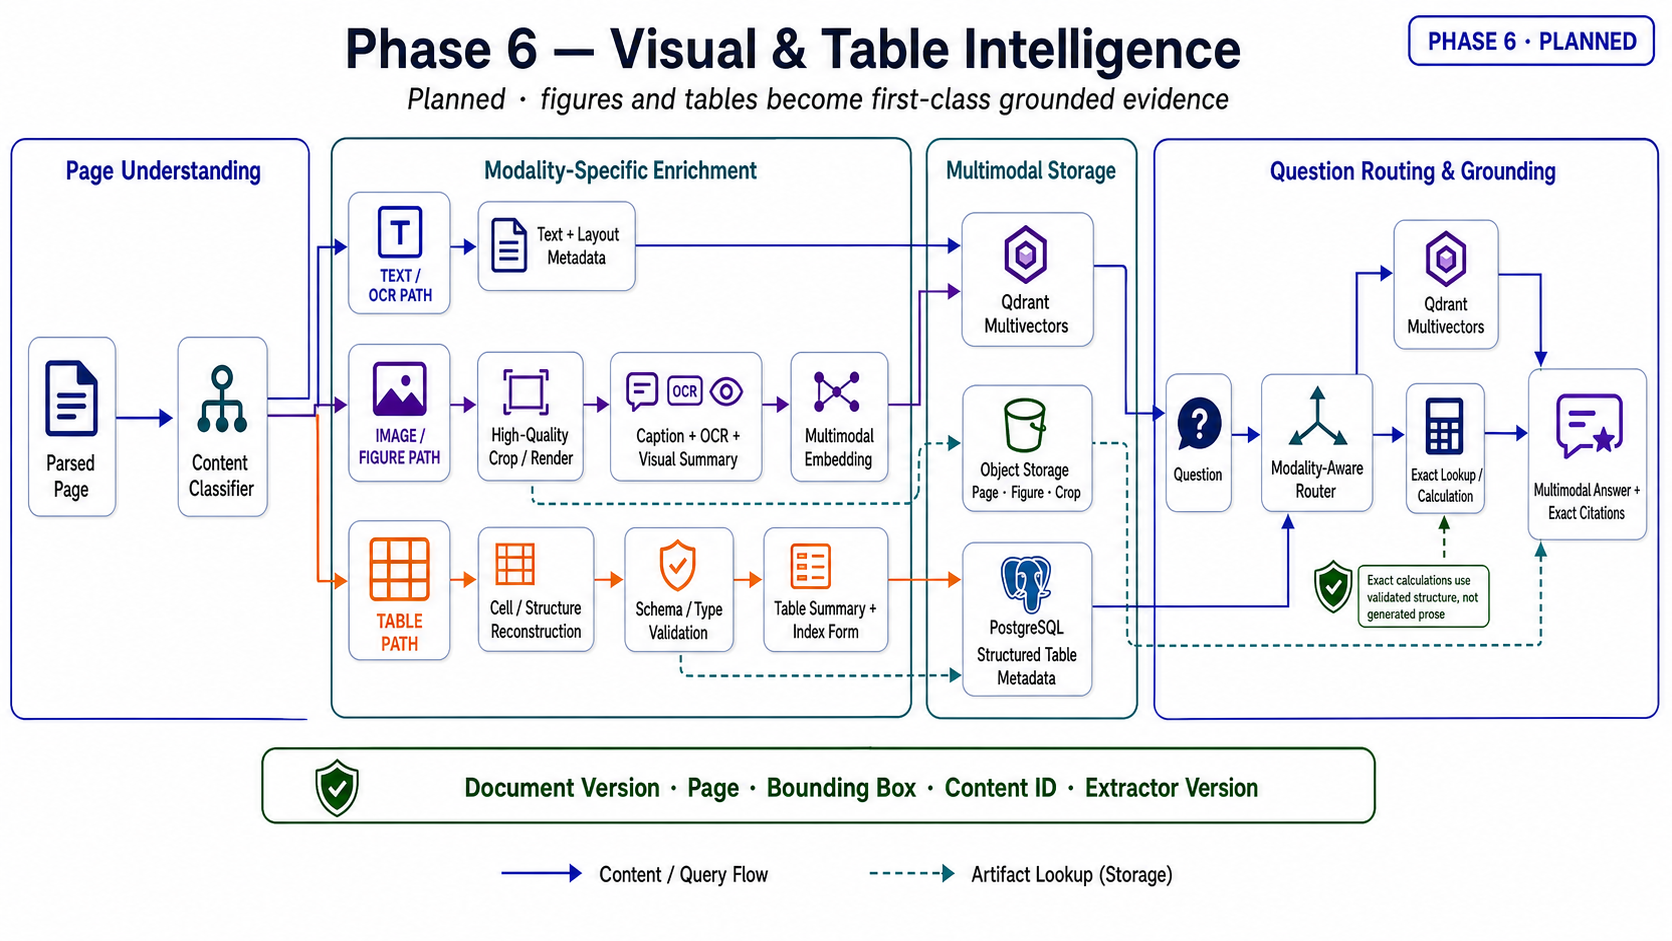
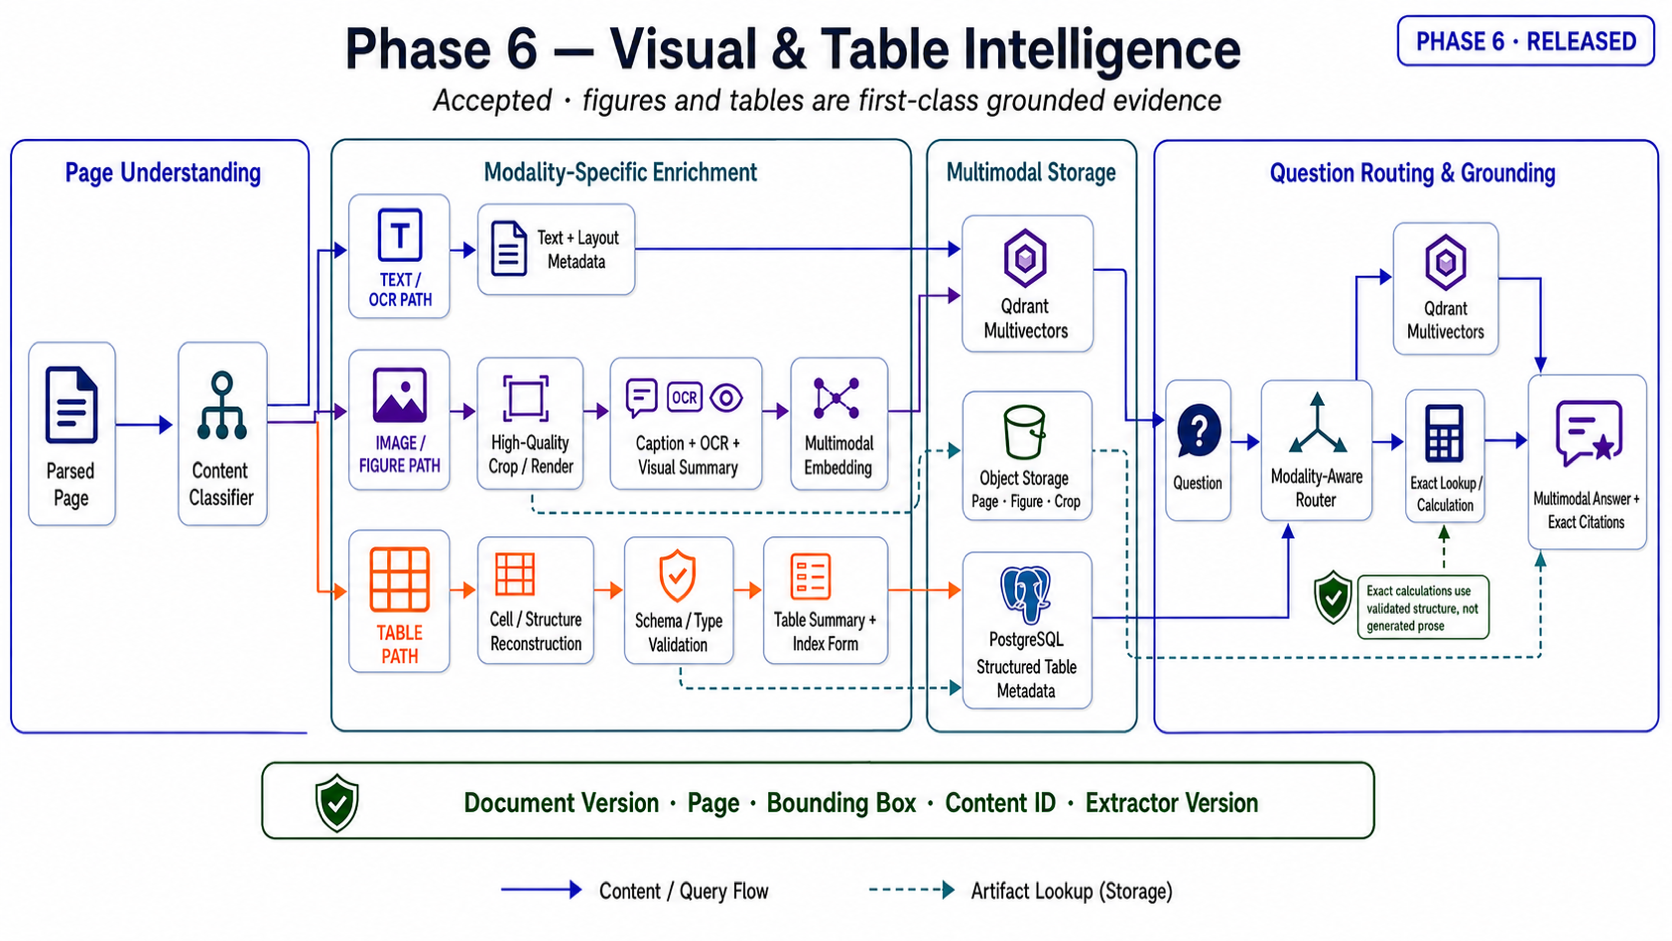
docs(mm-rag): refresh Phase 6 architecture images (#10)

diff --git a/mm-rag-full-stack-genai-bootcamp-3.0/docs/architecture/ARCHITECTURE_POSTERS.md b/mm-rag-full-stack-genai-bootcamp-3.0/docs/architecture/ARCHITECTURE_POSTERS.md
@@ -4,12 +4,12 @@
 > The handbook remains the editable source of truth; regenerate these posters
 > whenever architecture, data flow, technology, or phase status changes.
 
-## Current Phase 5 workflow and DEV architecture
+## Current Phase 6 workflow and DEV architecture
 
-This implementation checkpoint shows the accepted Phase 3/4 runtime and governance
-boundaries plus immutable sparse indexing, authorized dense/BM25 retrieval,
-deterministic RRF, the verified free v3 remediation, optional local reranking, and
-the remaining paid quality gate.
+This accepted release view shows the Phase 3/4 runtime and governance boundaries,
+Phase 5 hybrid retrieval foundation, and Phase 6 visual/table extraction, scoped
+CLIP retrieval, exact calculation, evidence inspection, and release status at
+`mm-rag-v6.0.0`.
 
 ![MM-RAG current workflow and DEV architecture](current/mm-rag-current-workflow-dev-architecture.svg)
 
@@ -49,6 +49,8 @@ live-service evidence and are accepted in PR #3's squash commit `57ee453`.
 ![Phase 5 hybrid retrieval, fusion, and reranking](images/05-phase-5-hybrid-retrieval.png)
 
 ## Phase 6 — Visual and table intelligence
+
+This poster records the accepted and released Phase 6 visual/table architecture.
 
 ![Phase 6 visual and table intelligence](images/06-phase-6-visual-table-intelligence.png)
 
